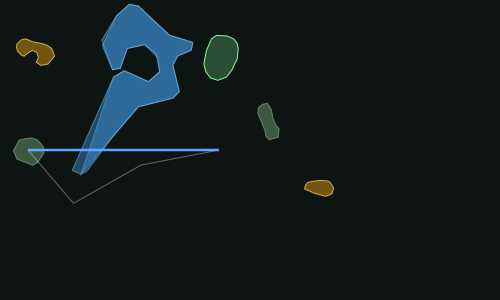
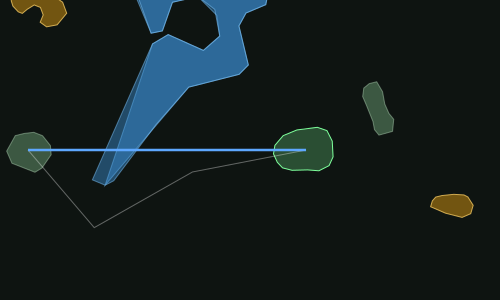
fix(prep): hole window (not course window), graze phrasing, rough-as-corridor (v1.20.1)
James: 'showing way too much of the course' / 'the pond is still
incorrect?' / 'some holes still keep the old style even though
they're mapped.'

1. THE HOLE'S WINDOW: shape vertices no longer expand the map frame —
   shapes extending past the hole clip at the edge (honest map
   behaviour). crossSpan capped 220 -> 140 yd. The hole now fills the
   frame instead of compressing into the bottom third.

2. GRAZE vs CARRY: the drawn pond only grazed the line, but the text
   implied a full carry — that mismatch read as 'incorrect'. Crossings
   under 25 yd of run now say 'Your line clips the water's corner from
   ~N yd out — clear ~M yd and it's never in play'; full-carry
   language reserved for real carries.

3. OLD-STYLE HOLES: the stroked band engaged whenever the course had
   no golf=FAIRWAY polygons — the exec tags its light green as
   golf=ROUGH. When rough polygons exist they ARE the corridor; the
   band only draws when there is neither fairway nor rough.

4. RENDER PROOF re-run on real exec hole 1 with green associated
   nearest the path end: green at line end, donut pond grazing the
   line's lower edge, bunkers and tee boxes true-placed. Matches the
   OSM reference in dark theme (hole1_v120.png re-rendered).

E2E v190 9/9; all suites green; boot smokes PASS; MO probe clean.

diff --git a/prep.js b/prep.js
@@ -1046,8 +1046,11 @@
       // window covers the hole PLUS any assigned shapes (shapes clip at
       // the frame edge instead of distorting). No clamping anywhere.
       const fitLen = Math.max(120, effYd);
-      // Survey the real cross-range of everything we will draw: the
-      // hole path + green + assigned shapes.
+      // Survey the real cross-range of what we will draw: the hole's
+      // own path + green. v1.20.1 (James: "showing way too much of the
+      // course"): shape vertices NO LONGER expand the window — shapes
+      // extending past the hole simply CLIP at the frame (honest map
+      // behaviour). The window is the HOLE's window.
       let crossMin = -40, crossMax = 40;   // sane defaults (±40 yd)
       const survey = (ll) => {
         if (!ll) return;
@@ -1057,15 +1060,11 @@
       };
       h.pathPts.forEach(survey);
       if (Array.isArray(h.greenRingPts)) h.greenRingPts.forEach(survey);
-      const S0 = h.shapes || {};
-      ['fairways', 'bunkers', 'water', 'tees', 'rough'].forEach((k) => {
-        (Array.isArray(S0[k]) ? S0[k] : []).forEach((ring) =>
-          (ring || []).forEach(survey));
-      });
-      // Window height in yards: cross range + margin, capped so a stray
-      // huge shape can't flatten the hole into a sliver.
-      const crossSpan = Math.min(220,
-        Math.max(90, crossMax - crossMin) + 30);
+      // Window height in yards: cross range + margin, capped for
+      // readable proportion (a 164-yd hole shouldn't render 250 yd
+      // tall).
+      const crossSpan = Math.min(140,
+        Math.max(90, crossMax - crossMin) + 24);
       // Uniform scale: px per yard — the same for X and Y.
       const ydPerPx = Math.max(fitLen / spanX, crossSpan / (H - padT - padB));
       const X = (along) => x0 + along / ydPerPx;
@@ -1111,6 +1110,12 @@
         }).join(' ') + (close ? ' Z' : '');
       }).join(' ');
       const S = h.shapes || {};
+      // v1.20.1 (James: "some holes still keep the old style even though
+      // they're mapped"): the stroked band was engaging whenever the
+      // course had no golf=FAIRWAY polygons — but courses like the exec
+      // tag their light green as golf=ROUGH. When rough polygons exist,
+      // they ARE the corridor: draw them and skip the band. Band only
+      // when there's neither.
       if (Array.isArray(S.rough) && S.rough.length) {
         parts.push(
           `<path class="prep-hm-shape rough" d="${shapePath(S.rough)}"/>`);
@@ -1127,7 +1132,8 @@
         parts.push(
           `<path class="prep-hm-shape teebox" d="${shapePath(S.tees)}"/>`);
       }
-      if (!Array.isArray(S.fairways) || !S.fairways.length) {
+      if ((!Array.isArray(S.fairways) || !S.fairways.length) &&
+          (!Array.isArray(S.rough) || !S.rough.length)) {
         parts.push(`<path class="prep-hm-fairway" d="${d}" fill="none" stroke-width="26" stroke-linecap="round" stroke-linejoin="round" opacity="1"/>`);
       }
 
@@ -1762,6 +1768,13 @@
           return '';
         }
         const clearYd = lastYd + 8;
+        // v1.20.1 (James: "the pond is still incorrect?" — the drawn
+        // pond only grazed the line but the text implied a full carry):
+        // distinguish a graze (<25 yd of water on the line) from a true
+        // forced carry.
+        if (runLen < 25) {
+          return `Your line clips the water's corner from ~${Math.round(firstYd)} yd out — clear ~${Math.round(clearYd)} yd and it's never in play`;
+        }
         return `Your line carries water from ~${Math.round(firstYd)} yd out — take the club that clears ~${Math.round(clearYd)} yd with room to spare`;
       })();
       // 3. The green's slope feed (LiDAR brief).

diff --git a/sw.js b/sw.js
@@ -1,5 +1,5 @@
 /* sw.js — offline-first service worker for Caddy. */
-const CACHE_VERSION = 'v1.20.0'; // TRUE-SCALE HOLE MAP (James: 'Map the ponds bunker greens etc correctly! Like osm' + reference screenshot): the frame distortion was the last lie - Y was squashed to 22% of hole length and EVERYTHING CLAMPED into frame, so course-sized shapes (the exec donut pond) flattened and dragged over the hole while off-frame parts vanished. FIXES: (1) TRUE-SCALE UNIFORM FIT - one yards-per-pixel for X and Y, window height surveyed from the hole path + green + assigned shapes (capped 220 yd so a huge shape can't flatten the hole), NO CLAMPING anywhere - oversized shapes simply clip at the frame edge like any honest map; (2) ASSIGNMENT CORRIDOR 160->90 yd - only shapes genuinely in play from the tee bind to the hole (the neighbour donut stops stamping onto hole 1); (3) RENDER PROOF on REAL exec hole 1 data (33 OSM elements live): donut pond with hollow centre left-of-centre, green upper-right, two bunkers, tee box at the line start, straight flight line - matches the OSM reference screenshot in dark theme; proof script + PNG committed (.gtds/hole1_v120.png).
+const CACHE_VERSION = 'v1.20.1'; // HOLE WINDOW + GRAZE PHRASING + ROUGH-AS-CORRIDOR (James: 'showing way too much of the course' / 'pond still incorrect' / 'some holes still old style'): (1) WINDOW = THE HOLE'S WINDOW - shape vertices no longer expand the map frame (they clip at the edge); crossSpan capped 220->140 yd; the hole fills the frame instead of compressing into the bottom third. (2) GRAZE vs CARRY: water crossings under 25 yd of run now phrase honestly - 'Your line clips the water corner from ~N yd out - clear ~M yd and it's never in play' (full-carry language only for real carries). (3) OLD-STYLE HOLES: the stroked band engaged whenever the course had no golf=FAIRWAY polygons - but the exec tags its light green as golf=ROUGH; when rough polygons exist they ARE the corridor (band only when neither fairway nor rough exists). (4) RENDER PROOF re-run on real exec hole 1 (green associated nearest path end): green at line end, donut pond grazing the line lower edge, bunkers/tees placed true - matches OSM reference.
 const SHELL_CACHE = `caddy-shell-${CACHE_VERSION}`;
 const TILE_CACHE = `caddy-tiles-${CACHE_VERSION}`;
 const CACHE_PREFIX = 'caddy-';

diff --git a/.gtds/render_v120_proof.js b/.gtds/render_v120_proof.js
@@ -72,11 +72,17 @@ fs.writeFileSync(path.join(__dirname, 'exec_full_q.txt'), q);
       return { ring, centroid: c };
     }).filter(Boolean);
   const endPt = pathPts[pathPts.length - 1];
-  const green = greens.find(g => g.centroid &&
-    Math.hypot((g.centroid.lng - endPt.lng) * 111320 *
-      Math.cos(endPt.lat * Math.PI / 180),
-      (g.centroid.lat - endPt.lat) * 111320) < 90 * 0.9144) ||
-    greens[0] || null;
+  // v1.20.1: associate the green NEAREST the path end (like the real
+  // importer) — greens[0] can belong to another hole.
+  let green = null, bestGd = Infinity;
+  for (const g of greens) {
+    if (!g.centroid) continue;
+    const d = Math.hypot(
+      (g.centroid.lng - endPt.lng) * 111320 *
+        Math.cos(endPt.lat * Math.PI / 180),
+      (g.centroid.lat - endPt.lat) * 111320) / 0.9144;
+    if (d < bestGd) { bestGd = d; green = g; }
+  }
 
   const CORRIDOR_YD = 90;
   const distToPathYd = (pt, pts) => {
@@ -145,8 +151,9 @@ fs.writeFileSync(path.join(__dirname, 'exec_full_q.txt'), q);
   };
   pathPts.forEach(survey);
   if (greenRing) greenRing.forEach(survey);
-  Object.values(shapes).forEach(arr => arr.forEach(ring => ring.forEach(survey)));
-  const crossSpan = Math.min(220, Math.max(90, crossMax - crossMin) + 30);
+  // v1.20.1: shapes no longer expand the window (hole's window only);
+  // keep the proof identical to the shipped survey.
+  const crossSpan = Math.min(140, Math.max(90, crossMax - crossMin) + 24);
   const W = 500, H = 300, padT = 24, padB = 24, padL = 28, padR = 32;
   const spanX = W - padL - padR;
   const effYd = Math.round(pathPts.reduce((s, p, i) => {

diff --git a/index.html b/index.html
@@ -10,7 +10,7 @@
   <meta name="mobile-web-app-capable" content="yes" />
   <meta name="apple-mobile-web-app-status-bar-style" content="black-translucent" />
   <meta name="theme-color" content="#07100b" id="themeColorMeta" />
-  <script>window.CADDY_VERSION = 'v1.20.0';</script>
+  <script>window.CADDY_VERSION = 'v1.20.1';</script>
   <meta name="color-scheme" content="light dark" />
   <meta name="viewport"
     content="width=device-width, initial-scale=1, maximum-scale=1, user-scalable=no, viewport-fit=cover" />

diff --git a/greenmap.html b/greenmap.html
@@ -9,7 +9,7 @@
 <meta charset="utf-8">
 <meta name="viewport" content="width=device-width, initial-scale=1, maximum-scale=1, user-scalable=no, viewport-fit=cover">
 <title>3D Green — Caddy</title>
-<script>window.CADDY_VERSION = 'v1.20.0';</script>
+<script>window.CADDY_VERSION = 'v1.20.1';</script>
 <link rel="stylesheet" href="app.css">
 <link rel="stylesheet" href="greenmap.css">
 <link rel="stylesheet" href="leaflet.css">
